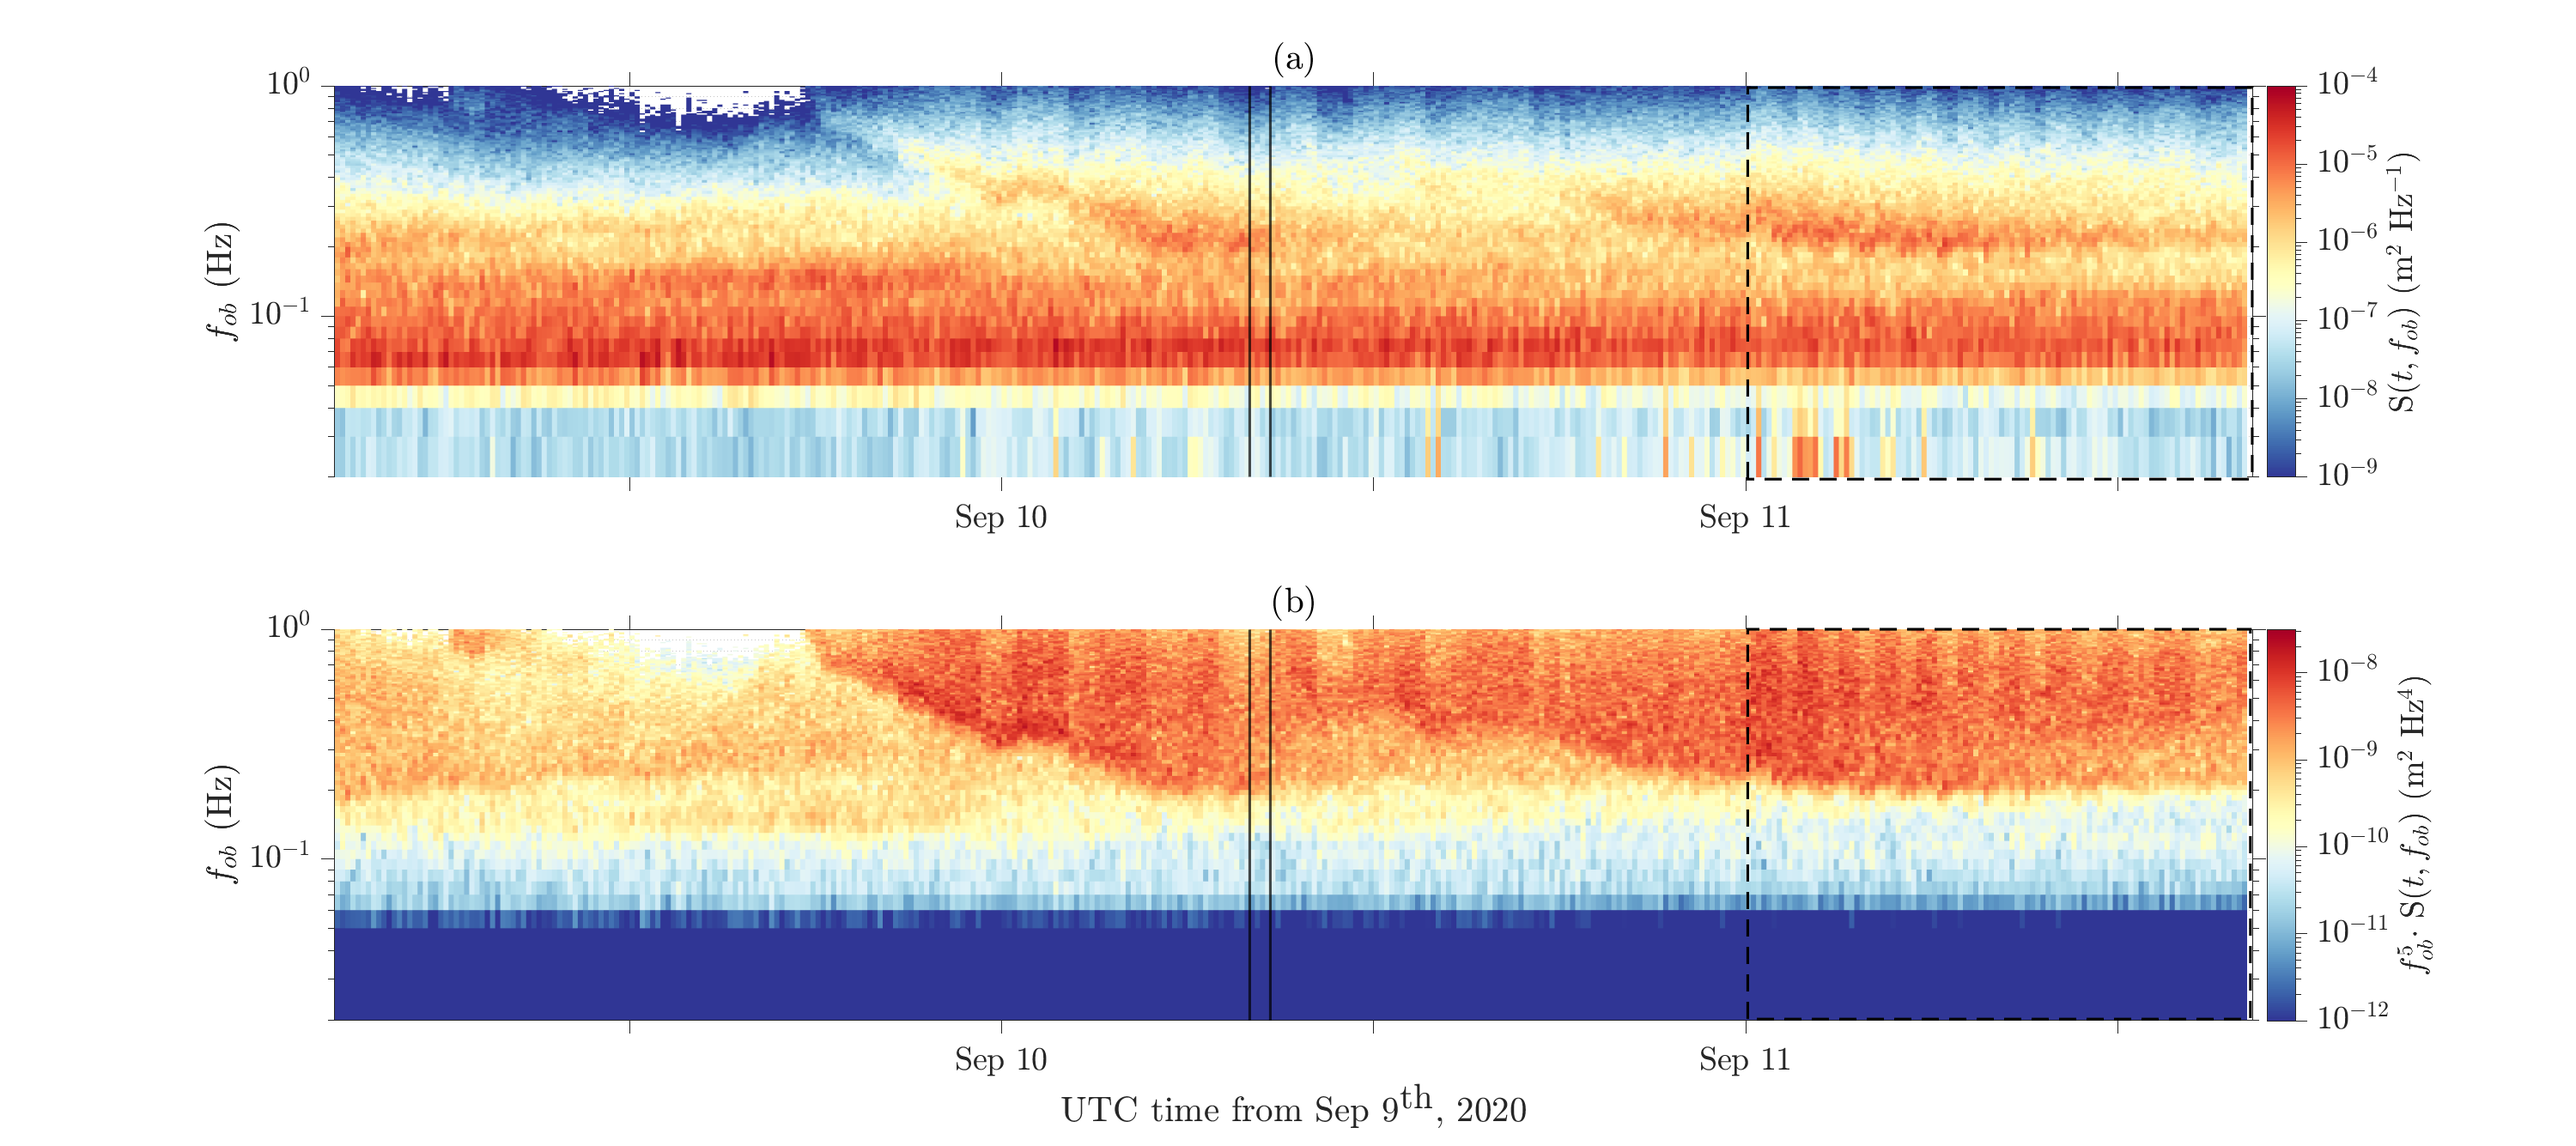
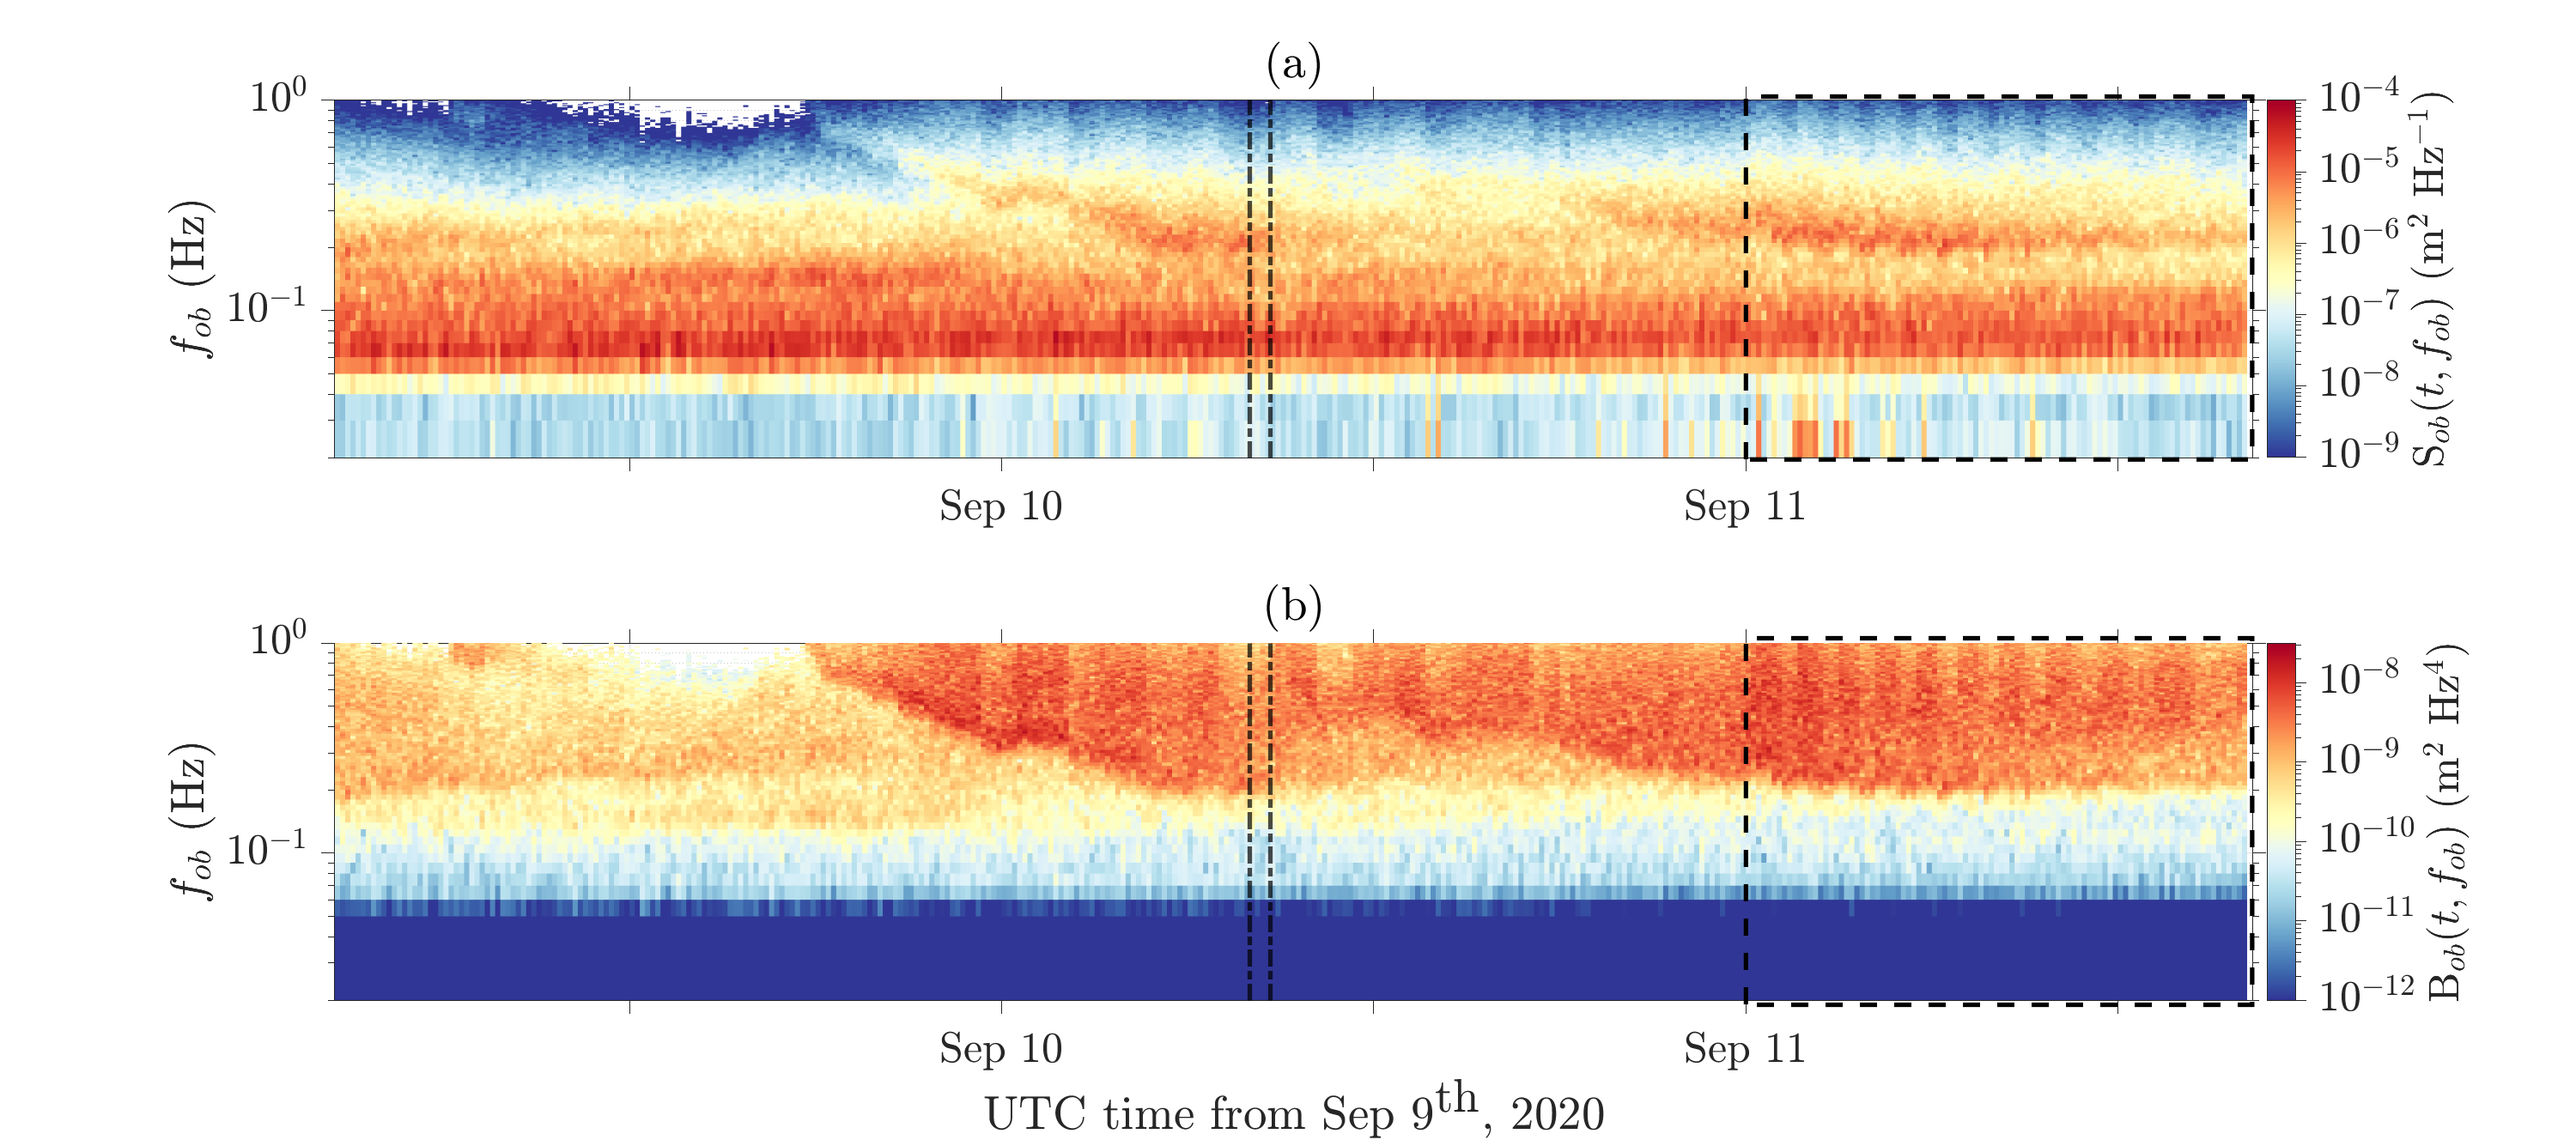
Increase font, remove brackets and small text, change cb labels.

diff --git a/src/fig7.m b/src/fig7.m
@@ -2,9 +2,12 @@
 % Luke Colosi | lcolosi@ucsd.edu | August 20th, 2022
 
 %-------------------------------- Caption --------------------------------%
-% Observed omni-directional (a) and saturation (b) wave spectrograms 
-% computed from measurement collected aboard the Stokes wave glider's 
-% during the large box trajectory (07:57:22 to 08:42:02 September 10, 2020). 
+% Observed (a) omnidirectional and (b) saturation wave spectrograms 
+% computed from measurement collected aboard the Stokes Wave Glider during
+% the DELMAR2020 experiment.The dot-dashed vertical lines outline the time
+% period  spectral quantities in Figure~\ref{f5} and ~\ref{f6} are derived
+% from. The dashed rectangle outlines the time period when the Stokes Wave
+% Glider moved in the small square formation (Figure~\ref{f1}).  
 %-------------------------------------------------------------------------%
 
 clc, clearvars -except Ns, close all;
@@ -45,7 +48,7 @@ nfft = fe/df;                                                               % Wi
 f = (0:df:fn);                                                              % Observed frequency (Hz)
 dtheta = 5;                                                                 % Angular resolution (degrees)
 ntheta = 360/dtheta+1;                                                      % Number of angles
-lambda_c = 1.5613;                                                          % % Wavelength cutoff (meters)
+lambda_c = 1.5613;                                                          % Wavelength cutoff (meters)
 f_noise = sqrt(g/(2*pi*lambda_c));                                          % Noise frequency cutoff 
 toolbox = 'WAFO';                                                           % Method used to compute directional spectrum 
 variables = 'heave_velocity';                                               % Heave and horizontal velocity are used to compute the direction spectrum
@@ -163,7 +166,7 @@ clc, close all;
 % Set power spectral densities equal to zero to NaN
 idx_zero = nov_s.spectrogram_omni_f_ob == 0; 
 nov_s.spectrogram_omni_f_ob(idx_zero) = NaN; 
-nov_s.sat_spectrogram_omni_f_ob(idx_zero) = NaN; 
+nov_s.sat_spectrogram_omni_f_ob(idx_zero) = NaN;
 
 % Find the time steps closest to the intital and final time of the leg
 % trajectory from figures 5 and 6. 
@@ -172,24 +175,30 @@ time_f = datenum('10-Sep-2020 08:42:02');
 idx_int = find(T0 >= time_i); 
 idx_fin = find(T1 <= time_f); 
 
+% Set the time steps for the small box trajectory
+time_sb_i = datenum('11-Sep-2020'); 
+time_sb_f = T1(end); 
+idx_sb_int = find(T0 >= time_sb_i); 
+idx_sb_fin = find(T1 <= time_sb_f);
+
 % Set plotting parameters
 t_ticks = datetime('09-Sep-2020 00:00:00'):hours(12):datetime('12-Sep-2020 00:00:00'); 
 red = [0.6350 0.0780 0.1840]; 
 blue = [0 0.4470 0.7410];
-fontsize = 18;
+fontsize = 24;
 
 % Create figure
 figure('units','normalized','outerposition',[0 0 1 0.8])
 
 %------------ Subplot 1 ------------% 
-subplot(2,1,1)
+ax1 = subplot(2,1,1); 
 
 % Plot omni-directional spectrogram
 pc = pcolor(T0, nov_s.f_ob, nov_s.spectrogram_omni_f_ob);
 
 hold on 
-xline(T0(idx_int(1)),'-', 'LineWidth', 1.5, 'color', [0 0 0])
-xline(T1(idx_fin(end)),'-', 'LineWidth', 1.5, 'color', [0 0 0])
+xline(T0(idx_int(1)),'-.', 'LineWidth', 2.5, 'color', [0 0 0])
+xline(T1(idx_fin(end)),'-.', 'LineWidth', 2.5, 'color', [0 0 0])
 hold on 
 
 % Set figure attributes
@@ -209,15 +218,15 @@ set(gca,'TickDir','out');
 set(gca, 'TickLength', [0.007, 0.007]) 
 set(gca,'FontSize',fontsize)
 set(gca,'TickLabelInterpreter','latex')
-annotation('rectangle',[0.678472222222223 0.581903276131046 0.195833333333333 0.341653666146646],...
-           'LineWidth',1.5,'LineStyle','--');
+annotation('rectangle',[0.677777777777778 0.599063962558502 0.196527777777778 0.316692667706708],...
+           'LineWidth',2.5,'LineStyle','--');
 
 % Set colorbar attributes
 cb = colorbar;
 colormap(flipud(cbrewer2('RdYlBu')))
 set(gca,'ColorScale','log')
 cb.Label.Interpreter = 'Latex';
-cb.Label.String = 'S($t,f_{ob}$) (m$^2$ Hz$^{-1}$)';
+cb.Label.String = 'S$_{ob}$($t,f_{ob}$) (m$^2$ Hz$^{-1}$)';
 caxis([10^-9, 10^-4]);
 cb.Ticks = [10^-9; 10^-8; 10^-7; 10^-6; 10^-5; 10^-4] ;
 cb.TickLabels = {'$10^{-9}$'; '$10^{-8}$'; '$10^{-7}$'; '$10^{-6}$'; '$10^{-5}$'; '$10^{-4}$'} ; 
@@ -227,14 +236,14 @@ cb.TickLength = 0.03;
 cb.FontSize = fontsize;
 
 %------------ Subplot 2 ------------% 
-subplot(2,1,2)
+ax2 = subplot(2,1,2); 
 
 % Plot saturation spectrogram
 pc = pcolor(T0, nov_s.f_ob, nov_s.sat_spectrogram_omni_f_ob);
 
 hold on 
-xline(T0(idx_int(1)),'-', 'LineWidth', 1.5, 'color', [0 0 0])
-xline(T1(idx_fin(end)),'-', 'LineWidth', 1.5, 'color', [0 0 0])
+xline(T0(idx_int(1)),'-.', 'LineWidth', 2.5, 'color', [0 0 0])
+xline(T1(idx_fin(end)),'-.', 'LineWidth', 2.5, 'color', [0 0 0])
 hold on
 
 % Set figure attributes
@@ -255,15 +264,15 @@ set(gca,'TickDir','out');
 set(gca, 'TickLength', [0.007, 0.007]) 
 set(gca,'FontSize',fontsize)
 set(gca,'TickLabelInterpreter','latex')
-annotation('rectangle',[0.678472222222222 0.110764430577223 0.195138888888889 0.34009360374415],...
-           'LineWidth',1.5,'LineStyle','--');
+annotation('rectangle',[0.677777777777778 0.123244929797192 0.196527777777778 0.3198127925117],...
+           'LineWidth',2.5,'LineStyle','--');
 
 % Set colorbar attributes
 cb = colorbar;
 colormap(flipud(cbrewer2('RdYlBu')))
 set(gca,'ColorScale','log')
 cb.Label.Interpreter = 'Latex';
-cb.Label.String = 'B($t,f_{ob}$) (m$^2$ Hz$^{4}$)';
+cb.Label.String = 'B$_{ob}$($t,f_{ob}$) (m$^2$ Hz$^{4}$)';
 caxis([10^-12, 10^-7.5]);
 cb.Ticks = [ 10^-12; 10^-11; 10^-10; 10^-9; 10^-8] ;
 cb.TickLabels = { '$10^{-12}$'; '$10^{-11}$'; '$10^{-10}$'; '$10^{-9}$'; '$10^{-8}$'} ; 
@@ -274,3 +283,111 @@ cb.FontSize = fontsize;
 
 % Save Figure
 saveas(gcf, [fig_path 'figure_7.png'])
+
+%% Developmental Code
+
+% % Set variables for plotting annotations
+% vline = 0.015;                                                              % Length of vertical lines
+% line_s = 0.015;                                                              % Distance from figure 
+% linewidth = 1.5;
+% 
+% xline(T0(idx_sb_int(1)),'-.', 'LineWidth', 2, 'color', [0 0 0])
+% xline(T1(idx_sb_fin(end)),'-.', 'LineWidth', 2, 'color', [0 0 0])
+% 
+% xline(T0(idx_sb_int(1)),'-.', 'LineWidth', 2, 'color', [0 0 0])
+% xline(T1(idx_sb_fin(end)),'-.', 'LineWidth', 2, 'color', [0 0 0])
+% 
+% % annotation('rectangle',[0.678472222222223 0.581903276131046 0.195833333333333 0.341653666146646],...
+% %            'LineWidth',1.5,'LineStyle','--');
+% 
+% % annotation('rectangle',[0.678472222222222 0.110764430577223 0.195138888888889 0.34009360374415],...
+% %            'LineWidth',1.5,'LineStyle','--');
+% 
+% % Set axis positions of figure
+% pos_ax1 = ax1.Position;                                                     % Note: position vector: [left bottom width height]
+% % annotation('rectangle',pos_ax1,'LineWidth',1.5,'LineStyle','--');
+% 
+% % Set position vector corresponding to the x-axis speed and y-axis
+% xpos = linspace(pos_ax1(1),pos_ax1(1)+pos_ax1(3),10000);
+% xtime = linspace(T0(1),T1(end),10000);
+% ypos = pos_ax1(2)+pos_ax1(4)+line_s;
+% 
+% % Get xpos for the small box and example spectra
+% xpos_sb = xpos(xtime >= datenum('11-Sep-2020') & xtime <= T1(end));
+% xpos_spec = xpos(xtime >= time_i & xtime <= time_f);
+% 
+% % Create annotations
+% %----- Small box time interval -----%
+% 
+% %-- Horizontal Line --%
+% xa = [xpos_sb(1) xpos_sb(end)];
+% ya = [ypos ypos];
+% annotation('line',xa,ya,'Color','k', 'LineWidth', linewidth)
+% 
+% %-- Vertical Lines --%
+% xa = [xpos_sb(1) xpos_sb(1)];
+% ya = [ypos-(vline/2) ypos+(vline/2)];
+% annotation('line',xa,ya,'Color','k', 'LineWidth', linewidth)
+% xa = [xpos_sb(end) xpos_sb(end)];
+% ya = [ypos-(vline/2) ypos+(vline/2)];
+% annotation('line',xa,ya,'Color','k', 'LineWidth', linewidth)
+% 
+% %-- Text box --%
+% annotation('textbox',...
+%     [0.758071321063572 0.932917316692668 0.0438851356506348 0.0343213728549142],...
+%     'String',{'Small Box'},'Interpreter','latex','HorizontalAlignment','center',...
+%     'FontWeight','bold','EdgeColor','none', 'fontsize', 12,'FitBoxToText','on');
+% 
+% %----- Example Spectra time interval -----%
+% 
+% %-- Horizontal Line --%
+% xa = [xpos_spec(1) xpos_spec(end)];
+% ya = [ypos ypos];
+% annotation('line',xa,ya,'Color','k', 'LineWidth', linewidth)
+% 
+% %-- Vertical Lines --%
+% xa = [xpos_spec(1) xpos_spec(1)];
+% ya = [ypos-(vline/2) ypos+(vline/2)];
+% annotation('line',xa,ya,'Color','k', 'LineWidth', linewidth)
+% xa = [xpos_spec(end) xpos_spec(end)];
+% ya = [ypos-(vline/2) ypos+(vline/2)];
+% annotation('line',xa,ya,'Color','k', 'LineWidth', 1.5)
+% 
+% %-- Text box --%
+% annotation('textbox',...
+%     [0.430060142093236 0.938533541192875 0.044351938035753 0.038065522769684],...
+%     'String',{'Figure 6a'},'Interpreter','latex','HorizontalAlignment','center',...
+%     'FontWeight','bold','FontSize',12,'EdgeColor','none','FitBoxToText','on');
+% 
+% % Set axis positions of figure
+% pos_ax2 = ax2.Position;
+% 
+% % Set position vector corresponding to the x-axis speed and y-axis
+% xpos = linspace(pos_ax2(1),pos_ax2(1)+pos_ax2(3),10000);
+% xtime = linspace(T0(1),T1(end),10000);
+% ypos = pos_ax2(2)+pos_ax2(4)+line_s;
+% 
+% % Get xpos for the example spectra
+% xpos_spec = xpos(xtime >= time_i & xtime <= time_f);
+% 
+% %----- Example Spectra time interval -----%
+% 
+% %-- Horizontal Line --%
+% xa = [xpos_spec(1) xpos_spec(end)];
+% ya = [ypos ypos];
+% annotation('line',xa,ya,'Color','k', 'LineWidth', linewidth)
+% 
+% %-- Vertical Lines --%
+% xa = [xpos_spec(1) xpos_spec(1)];
+% ya = [ypos-(vline/2) ypos+(vline/2)];
+% annotation('line',xa,ya,'Color','k', 'LineWidth', linewidth)
+% xa = [xpos_spec(end) xpos_spec(end)];
+% ya = [ypos-(vline/2) ypos+(vline/2)];
+% annotation('line',xa,ya,'Color','k', 'LineWidth', 1.5)
+% 
+% %-- Text box --%
+% annotation('textbox',...
+%     [0.430060142093236 0.938533541192875 0.044351938035753 0.038065522769684],...
+%     [0.430060142093236 0.465834633236557 0.0489815844429864 0.038065522769684],...
+%     'String',{'Figure 6b'},'Interpreter','latex','HorizontalAlignment','center',...
+%     'FontWeight','bold','FontSize',12,'EdgeColor','none','FitBoxToText','on');
